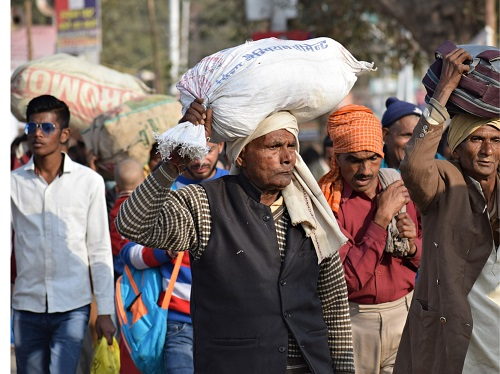
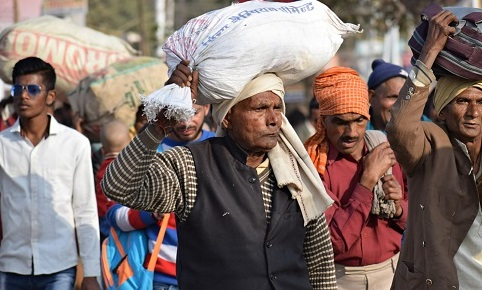
IND Content

diff --git a/indien.html b/indien.html
@@ -80,20 +80,41 @@
   <main>
 <div id="main">
 
-  <section class="col">
+  <section class="col1 headline">NEWS
     <article>
-      <a href="#"><img class="main-img-max" src="img/ind/in_pic_1.jpg"></a>
+
       </article>
     </section>
-  <section class="col">
-    <article>TEst Col 2
+  <section class="col2">
+    <article> <h3> This is a small Subheadline </h3>
+      <a href="#"><img class="main-img-col2" src="img/ind/in_pic_1.jpg"></a>
+      <h1><a href="#">"I'm a headline for an article"</a></h1>
+      <div class="col2-text">But I must explain to you how all this mistaken
+        idea of denouncing pleasure and praising pain was born and
+        I will give you a complete account of the system,
+        and expound the actual teachings of the great explorer of the truth,
+        the master-builder of human happiness.
       </article>
+
+      <article > <h3> This is another small Subheadline </h3>
+        <a href="#"><img class="main-img-col2" src="img/ind/in_pic_2.jpg"></a>
+        <h1>  <a href="#">This is another headline for another article teaser</a></h1>
+        <div class="col2-text" >No one rejects, dislikes, or avoids pleasure itself,
+          because it is pleasure, but because those who do not know how to pursue
+          pleasure rationally encounter consequences that are extremely painful.
+        </article>
+    </section>
+    <section>
+      
     </section>
 
 
 
-  <aside class="col">
-    Test Col 3
+  <aside class="col3">
+  <div class="col1-3-pic-abstand">  <a href="#" target="_blank"><img class="col1-3-pic" src="img/ind/in_ad_square_1.jpg"></a>
+  </div>
+  <div  class="col1-3-pic-tall-border ">  <a href="#" target="_blank"><img class="col1-3-pic-tall" src="img/ind/in_ad_tall_1.jpg"></a>
+  </div>
     </aside>
 
 </div>

diff --git a/indien.css b/indien.css
@@ -151,25 +151,109 @@ header {
 /* Styles 4 Main Content */
 
 main {
-	background-color:#111111;
+	background-color:#121212;
 	height: 100%;
-	padding-bottom: 100px;
+	padding-bottom: 900px;
+	padding-top: 15px;
 }
+
 #main {
   width: 1200px;
   margin: auto;
-	background-color:#121212;
+	background-color:#FFFFFF;
+
 }
 
-.col {
-  width: 400px;
+/* Cols 1 und 3 Größen - Breite 350 Margin 25, insgesamt 750*/
+.col1 {
+  width: 320px;
   float: left;
+	margin-right: 5px;
+	padding:10px;
+	background-color: #FFFFFF;
 }
 
-.main-img-max {
-  width: 300px;
-  margin-top: 35px;
-  margin-bottom: 35px;
+.headline {
+	font-size: 18px;
+	font-weight: bold;
+	line-height: 34px;
+}
+
+.col3 {
+  width: 320px;
+  float: left;
+	margin-left: 5px;
+	padding: 10px;
+	background-color: #FFFFFF;
+}
+/* Col2 450px*/
+.col2 {
+	width: 480px;
+	background-color: #FFFFFF;
+	float: left;
+	padding: 10px;
+}
+
+.main-img-col2 {
+  width: 430px;
+	margin-left: 25px;
+	padding-top: 15px;
+  margin-bottom: 20px;
+	border: 0px;
+}
+
+.col2-text {
+		margin-left: 25px;
+		margin-top: 15px;
+		padding-right: 15px;
+		padding-bottom: 15px;
+}
+
+article a {
+
+	color: #121212;
+}
+
+article a:hover {
+		text-decoration: underline;
+		color: #121212;
+}
+
+.col1-3-pic {
+	width: 290px;
+}
+
+.col1-3-pic-tall-border {
+	margin-left: 15px;
+	padding: 15px 0px 15px 10px;
+	border: 1px solid #dedede;
+		margin-right:15px;
+
+
+}
+
+.col1-3-pic-tall {
+	width: 270px;
+}
+
+.col1-3-pic-abstand {
+	padding: 10px 10px 10px 15px;
+
+}
+
+h1 {
+	font-size: 26px;
+	font-weight: bold;
+	line-height: 26px;
+		margin-left: 25px;
+}
+
+h3 {
+	text-transform: uppercase;
+	color: #555555;
+	font-size: 14px;
+	padding-top: 15px;
+	padding-left: 25px;
 }
 
 /*Footerstyles */
